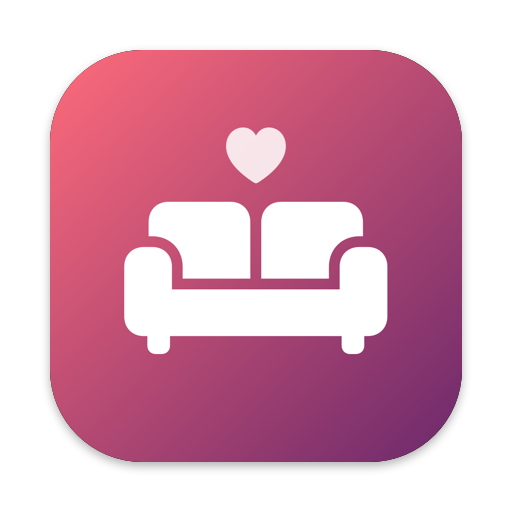
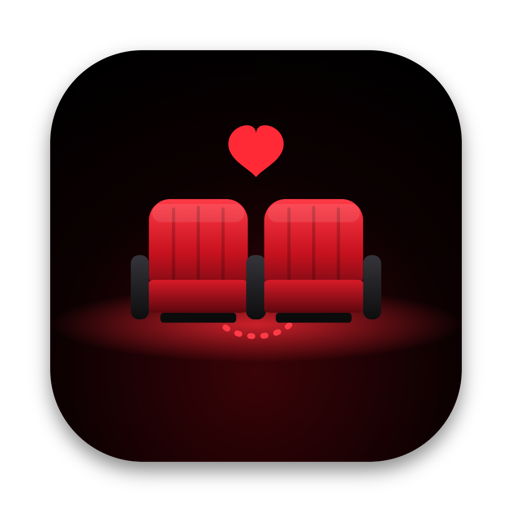
Вместе 1.0.5

diff --git a/index.html b/index.html
@@ -4,81 +4,77 @@
 <meta charset="utf-8">
 <meta name="viewport" content="width=device-width, initial-scale=1, viewport-fit=cover">
 <title>Вместе — видео с друзьями</title>
-<meta name="description" content="Смотрите фильмы, сериалы и видео с друзьями синхронно — с голосом и чатом. Mac, Windows, Linux, Android и браузер.">
-<meta name="theme-color" content="#7a2b6e">
+<meta name="description" content="Смотрите фильмы, сериалы и видео с друзьями синхронно — с голосом и чатом. Mac, Windows, Linux, Android, Android TV и браузер.">
+<meta name="theme-color" content="#000000">
 <meta property="og:title" content="Вместе — видео с друзьями">
 <meta property="og:description" content="Фильмы и сериалы с друзьями синхронно, с голосом и чатом.">
 <meta property="og:image" content="icon.png">
 <link rel="icon" href="icon.png">
 <style>
-  :root {
-    --pink: #ff6b8c; --rose: #d9577c; --violet: #7a2b6e; --deep: #2a1033;
-    --bg: #f6f2f7; --card: #fff; --text: #17121b; --muted: #6f6677; --line: rgba(60, 30, 70, .12); --chip: rgba(255, 107, 140, .12);
-  }
-  @media (prefers-color-scheme: dark) {
-    :root { --bg: #0d0a12; --card: #19141f; --text: #f4eff7; --muted: #a79fb0; --line: rgba(255, 255, 255, .1); --chip: rgba(255, 107, 140, .16); }
-  }
+  :root { --red: #e50914; --red-hi: #ff1f2b; --bg: #000; --card: #121213; --card-2: #1b1b1c; --text: #f5f5f1; --muted: #a3a3a3; --line: rgba(255, 255, 255, .09); color-scheme: dark; }
   * { box-sizing: border-box; }
   html { -webkit-text-size-adjust: 100%; }
-  body { margin: 0; background: var(--bg); color: var(--text); font: 16px/1.5 -apple-system, BlinkMacSystemFont, "Segoe UI", Roboto, "Helvetica Neue", Arial, sans-serif; }
-  a { color: var(--pink); }
-
-  .hero { position: relative; overflow: hidden; color: #fff; text-align: center; padding: 60px 16px 84px;
-    background: radial-gradient(ellipse at 15% 0%, rgba(255, 140, 160, .55), transparent 55%),
-                radial-gradient(ellipse at 90% 100%, rgba(120, 60, 255, .45), transparent 60%),
-                linear-gradient(140deg, #e0607f, var(--violet) 60%, var(--deep)); }
-  .logo { width: 116px; height: 116px; display: block; margin: 0 auto 18px; filter: drop-shadow(0 16px 30px rgba(20, 0, 30, .45)); }
-  h1 { font-size: 44px; line-height: 1.05; margin: 0 0 6px; letter-spacing: -.5px; }
-  .tagline { font-size: 19px; opacity: .9; margin: 0 auto 30px; max-width: 32ch; }
-  .primary { display: inline-flex; align-items: center; gap: 10px; background: #fff; color: var(--violet); text-decoration: none; font-weight: 700; font-size: 18px;
-    padding: 16px 30px; border-radius: 999px; box-shadow: 0 12px 34px rgba(30, 0, 40, .4); transition: transform .2s; }
-  .primary:hover { transform: translateY(-2px); }
+  body { margin: 0; background: var(--bg); color: var(--text); font: 16px/1.5 -apple-system, BlinkMacSystemFont, "Segoe UI", Roboto, "Helvetica Neue", Arial, sans-serif; -webkit-font-smoothing: antialiased; }
+  a { color: #ff6b73; }
+  .hero { position: relative; overflow: hidden; text-align: center; padding: 34px 16px 96px;
+    background: radial-gradient(70% 60% at 50% 110%, rgba(229, 9, 20, .35), transparent 70%), #000; }
+  .wordmark { font-weight: 900; font-size: 22px; letter-spacing: .06em; color: var(--red); text-transform: uppercase; text-shadow: 0 0 22px rgba(229, 9, 20, .35); }
+  .seats { display: block; width: min(560px, 100%); height: auto; margin: 6px auto -4px; }
+  h1 { font-size: clamp(36px, 6vw, 58px); line-height: 1.03; margin: 0 0 10px; letter-spacing: -.02em; font-weight: 900; }
+  h1 span { color: var(--red); }
+  .tagline { font-size: 19px; color: #d2d2d2; margin: 0 auto 28px; max-width: 34ch; }
+  .primary { display: inline-flex; align-items: center; gap: 10px; background: var(--red); color: #fff; text-decoration: none; font-weight: 800; font-size: 19px;
+    padding: 16px 30px; border-radius: 6px; transition: background .15s, box-shadow .2s, transform .2s; }
+  .primary:hover { background: var(--red-hi); box-shadow: 0 10px 34px rgba(229, 9, 20, .45); }
   .primary:active { transform: scale(.97); }
   .primary svg { width: 22px; height: 22px; }
-  .sub { margin-top: 14px; font-size: 14px; opacity: .85; }
+  .sub { margin-top: 14px; font-size: 14px; color: var(--muted); }
   .sub a { color: #fff; }
-
-  main { max-width: 920px; margin: -46px auto 0; padding: 0 16px 48px; position: relative; }
-  .grid { display: grid; grid-template-columns: repeat(auto-fit, minmax(260px, 1fr)); gap: 14px; }
-  .card { background: var(--card); border-radius: 24px; padding: 22px; border: 1px solid var(--line); box-shadow: 0 10px 30px rgba(40, 10, 50, .06); }
-  .card h2 { font-size: 19px; margin: 0 0 4px; display: flex; align-items: center; gap: 10px; }
-  .ic { width: 36px; height: 36px; border-radius: 10px; display: grid; place-items: center; color: #fff; flex: none; background: linear-gradient(135deg, var(--pink), var(--violet)); }
+  main { max-width: 960px; margin: -54px auto 0; padding: 0 16px 48px; position: relative; }
+  .grid { display: grid; grid-template-columns: repeat(auto-fit, minmax(270px, 1fr)); gap: 12px; }
+  .card { background: var(--card); border-radius: 10px; padding: 22px; border: 1px solid var(--line); transition: transform .25s, border-color .2s, background .2s; }
+  .card:hover { transform: translateY(-3px); border-color: rgba(255, 255, 255, .18); background: #161617; }
+  .card h2 { font-size: 20px; margin: 0 0 4px; display: flex; align-items: center; gap: 10px; font-weight: 800; }
+  .ic { width: 36px; height: 36px; border-radius: 6px; display: grid; place-items: center; color: #fff; flex: none; background: var(--red); }
   .ic svg { width: 20px; height: 20px; }
   .card p { margin: 6px 0 16px; color: var(--muted); font-size: 14px; }
-  .btn { display: flex; align-items: center; justify-content: center; gap: 8px; width: 100%; text-decoration: none; background: linear-gradient(135deg, var(--pink), var(--rose));
-    color: #fff !important; font-weight: 650; padding: 12px 16px; border-radius: 999px; }
-  .btn.ghost { background: var(--chip); color: var(--pink) !important; margin-top: 8px; }
-  .btn.off { background: var(--chip); color: var(--muted) !important; pointer-events: none; }
+  .btn { display: flex; align-items: center; justify-content: center; gap: 8px; width: 100%; text-decoration: none; background: var(--red);
+    color: #fff !important; font-weight: 700; padding: 12px 16px; border-radius: 6px; transition: background .15s; }
+  .btn:hover { background: var(--red-hi); }
+  .btn.ghost { background: rgba(109, 109, 110, .4); margin-top: 8px; }
+  .btn.ghost:hover { background: rgba(109, 109, 110, .6); }
+  .btn.off { background: rgba(109, 109, 110, .25); color: var(--muted) !important; pointer-events: none; }
   details { margin-top: 12px; font-size: 14px; }
-  summary { cursor: pointer; color: var(--pink); font-weight: 600; list-style: none; }
+  summary { cursor: pointer; color: #ff6b73; font-weight: 700; list-style: none; }
   summary::-webkit-details-marker { display: none; }
   summary::before { content: "›"; display: inline-block; margin-right: 6px; transition: transform .2s; }
   details[open] summary::before { transform: rotate(90deg); }
-  details ol { padding-left: 20px; margin: 8px 0 0; }
+  details ol { padding-left: 20px; margin: 8px 0 0; color: #d2d2d2; }
   details li { margin: 4px 0; }
-
-  h3 { font-size: 24px; margin: 34px 0 14px; }
+  code { background: rgba(255, 255, 255, .08); padding: 1px 6px; border-radius: 4px; font-size: 13px; }
+  h3 { font-size: 26px; margin: 38px 0 14px; font-weight: 900; letter-spacing: -.01em; }
   .steps { counter-reset: s; display: grid; gap: 12px; grid-template-columns: repeat(auto-fit, minmax(240px, 1fr)); }
-  .step { background: var(--card); border: 1px solid var(--line); border-radius: 20px; padding: 16px 16px 16px 62px; position: relative; font-size: 15px; }
-  .step::before { counter-increment: s; content: counter(s); position: absolute; left: 16px; top: 16px; width: 32px; height: 32px; border-radius: 50%;
-    background: linear-gradient(135deg, var(--pink), var(--violet)); color: #fff; display: grid; place-items: center; font-weight: 700; }
+  .step { background: var(--card); border: 1px solid var(--line); border-radius: 10px; padding: 16px 16px 16px 62px; position: relative; font-size: 15px; }
+  .step::before { counter-increment: s; content: counter(s); position: absolute; left: 16px; top: 16px; width: 32px; height: 32px; border-radius: 6px;
+    background: var(--red); color: #fff; display: grid; place-items: center; font-weight: 800; }
   .step b { display: block; margin-bottom: 2px; }
   .step span { color: var(--muted); }
   .features { display: grid; gap: 12px; grid-template-columns: repeat(auto-fit, minmax(200px, 1fr)); }
-  .feature { background: var(--card); border: 1px solid var(--line); border-radius: 20px; padding: 16px; font-size: 14px; color: var(--muted); }
+  .feature { background: var(--card); border: 1px solid var(--line); border-radius: 10px; padding: 16px; font-size: 14px; color: var(--muted); }
   .feature b { display: block; color: var(--text); font-size: 15px; margin-bottom: 2px; }
   .feature .e { font-size: 24px; display: block; margin-bottom: 6px; }
-  .note { margin-top: 28px; background: var(--card); border: 1px solid var(--line); border-radius: 20px; padding: 16px 18px; font-size: 14px; color: var(--muted); }
+  .note { margin-top: 28px; background: var(--card); border-left: 3px solid var(--red); border-radius: 6px; padding: 16px 18px; font-size: 14px; color: var(--muted); }
   .note b { color: var(--text); }
-  footer { text-align: center; color: var(--muted); font-size: 13px; padding: 8px 16px 40px; }
-  @media (max-width: 480px) { h1 { font-size: 36px; } .hero { padding-top: 44px; } }
+  footer { text-align: center; color: #6b6b6b; font-size: 13px; padding: 8px 16px 40px; }
+  @media (max-width: 480px) { .hero { padding-top: 26px; } .tagline { font-size: 17px; } }
 </style>
 </head>
 <body>
 <header class="hero">
-  <img class="logo" src="icon.png" alt="">
-  <h1>Вместе</h1>
-  <p class="tagline">Фильмы, сериалы и видео с друзьями — синхронно, с голосом и чатом</p>
+  <div class="wordmark">Вместе</div>
+  <img class="seats" src="seats.svg" alt="Два кресла кинотеатра подъезжают друг к другу по проводу">
+  <h1>Кино вдвоём. <span>Даже на расстоянии.</span></h1>
+  <p class="tagline">Фильмы, сериалы и видео с друзьями — синхронно, с голосом и чатом. Как будто вы сидите рядом.</p>
   <a class="primary" id="primary" href="https://github.com/Tbasor/vmeste-download/releases/latest/download/Vmeste-AppleSilicon.dmg">
     <svg viewBox="0 0 24 24" fill="currentColor"><path d="M16.4 12.6c0-2.4 2-3.6 2.1-3.7-1.1-1.7-2.9-1.9-3.5-1.9-1.5-.2-2.9.9-3.7.9-.8 0-1.9-.9-3.2-.8-1.6 0-3.1 1-4 2.4-1.7 3-.4 7.4 1.2 9.8.8 1.2 1.8 2.5 3 2.4 1.2 0 1.7-.8 3.2-.8s1.9.8 3.2.8c1.3 0 2.2-1.2 3-2.4.9-1.4 1.3-2.7 1.3-2.8 0 0-2.6-1-2.6-3.9zM14 5.5c.7-.8 1.1-1.9 1-3-1 0-2.1.7-2.8 1.5-.6.7-1.2 1.8-1 2.9 1.1.1 2.1-.6 2.8-1.4z"/></svg>
     <span id="primary-label">Скачать для Mac (M1–M5)</span>
@@ -146,6 +142,20 @@
         </ol>
       </details>
     </div>
+    <div class="card" id="card-tv">
+      <h2><span class="ic"><svg viewBox="0 0 24 24" fill="none" stroke="#fff" stroke-width="2" stroke-linecap="round" stroke-linejoin="round"><rect x="2" y="4" width="20" height="13" rx="2"/><path d="M8 21h8M12 17v4"/></svg></span>Android TV</h2>
+      <p>Android TV и Google TV (Sony, Philips, TCL, Xiaomi Mi Box, Chromecast с Google TV). Управление пультом, голос — на телефоне.</p>
+      <a class="btn" href="https://github.com/Tbasor/vmeste-download/releases/latest/download/Vmeste-TV.apk">Скачать APK для ТВ</a>
+      <details>
+        <summary>Как установить на телевизор</summary>
+        <ol>
+          <li>На телевизоре установите из Google Play приложение <b>Downloader</b> (или «Send files to TV»).</li>
+          <li>В настройках ТВ разрешите установку из неизвестных источников для этого приложения.</li>
+          <li>В Downloader откройте адрес <code>tbasor.github.io/vmeste-download</code> и скачайте «APK для ТВ».</li>
+          <li>«Вместе» появится в списке приложений. Звонок и чат удобнее держать на телефоне.</li>
+        </ol>
+      </details>
+    </div>
     <div class="card" id="card-iphone">
       <h2><span class="ic"><svg viewBox="0 0 24 24" fill="none" stroke="#fff" stroke-width="2" stroke-linecap="round" stroke-linejoin="round"><rect x="7" y="2" width="10" height="20" rx="2.5"/><path d="M11 18h2"/></svg></span>iPhone</h2>
       <p>Звонок, чат и пульт на телефоне, пока фильм идёт на большом экране. Пока по приглашению в TestFlight.</p>
@@ -191,6 +201,7 @@
       if (sub !== undefined) document.getElementById('sub').innerHTML = sub;
     };
     const all = ' · <a href="#all">все версии</a> · <a href="https://tbasor.org/vmeste/">или откройте в браузере</a>';
+    if (/Android/i.test(ua) && /\bTV\b|AFT|BRAVIA|GoogleTV|SMART-TV|Android TV/i.test(ua)) return set('Vmeste-TV.apk', 'Скачать для Android TV', 'Android TV и Google TV' + all);
     if (/Android/i.test(ua)) return set('Vmeste.apk', 'Скачать для Android', 'Android 8 и новее' + all);
     if (/iPhone|iPad|iPod/i.test(ua)) return set('#card-iphone', 'Версии для всех устройств', 'iPhone — скоро в App Store' + all);
     if (/Windows/i.test(ua)) return set('Vmeste-Setup.exe', 'Скачать для Windows', 'Windows 10 и 11, 64-бит' + all);
